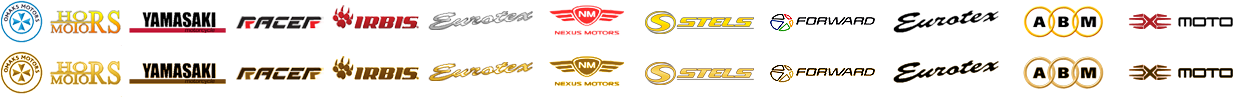
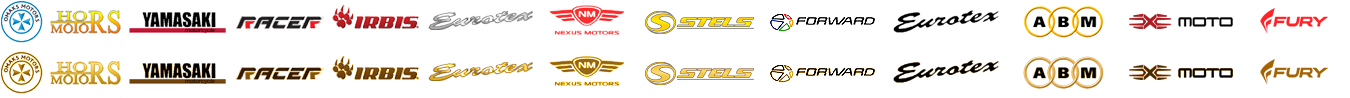
Марка fury для велосипедов

Changed region(s): [[0.0, 0.5204, 0.9928, 0.949], [0.0, 0.0, 0.9928, 0.4286]]

diff --git a/app/webroot/css/style.css b/app/webroot/css/style.css
@@ -909,6 +909,11 @@ img {
   width: 106px;
 }
 
+.company.fury {
+  background-position:-1260px -50px;
+  width: 67px;
+}
+
 .companies-menu .company.omaks:hover,
 .companies-menu .company.omaks.act{
   background-position: 0px 1px;
@@ -974,6 +979,12 @@ img {
 .companies-menu .company.xmoto.act{
   background-position: -1128px 1px;
   width: 106px;
+}
+
+.companies-menu .company.fury:hover,
+.companies-menu .company.fury.act{
+  background-position: -1260px 1px;
+  width: 67px;
 }
 
 .cm-partner-item .cmp-info span.company {
